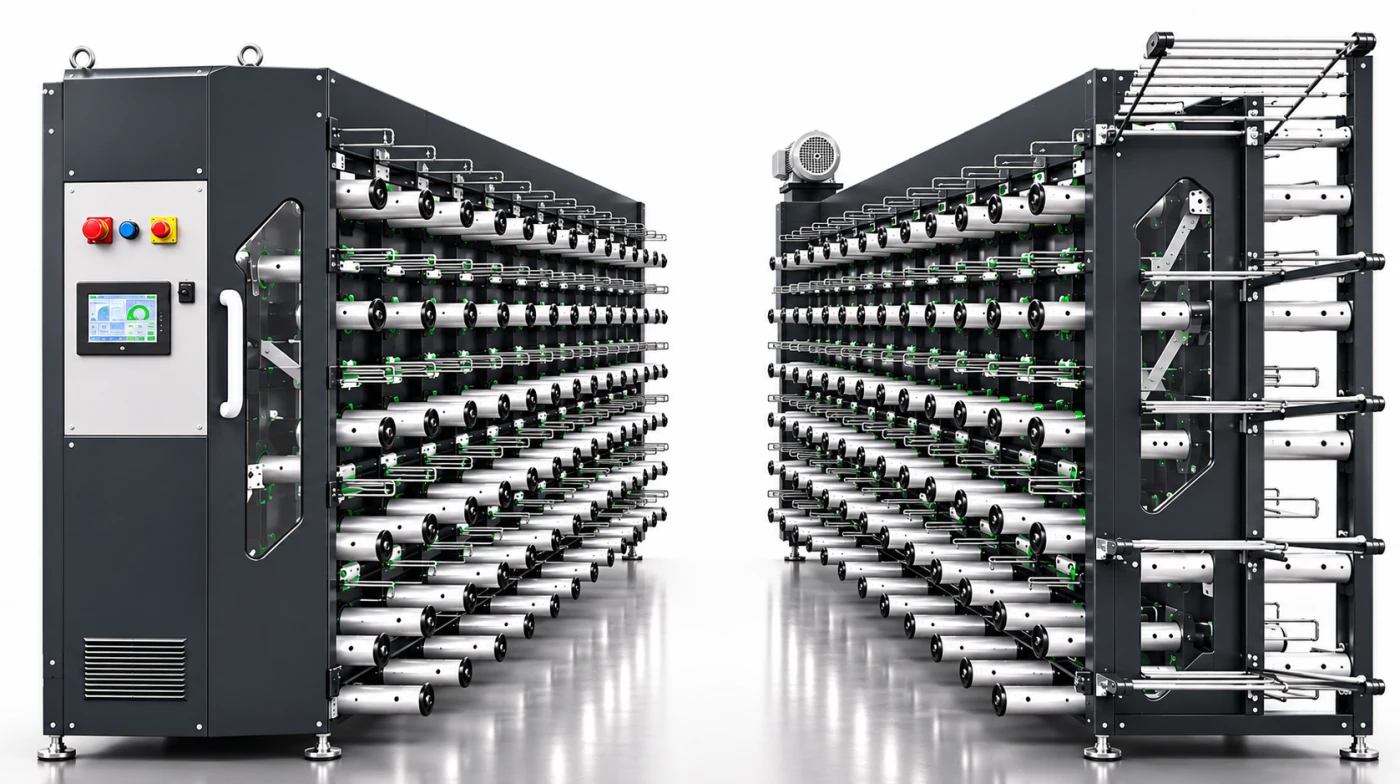
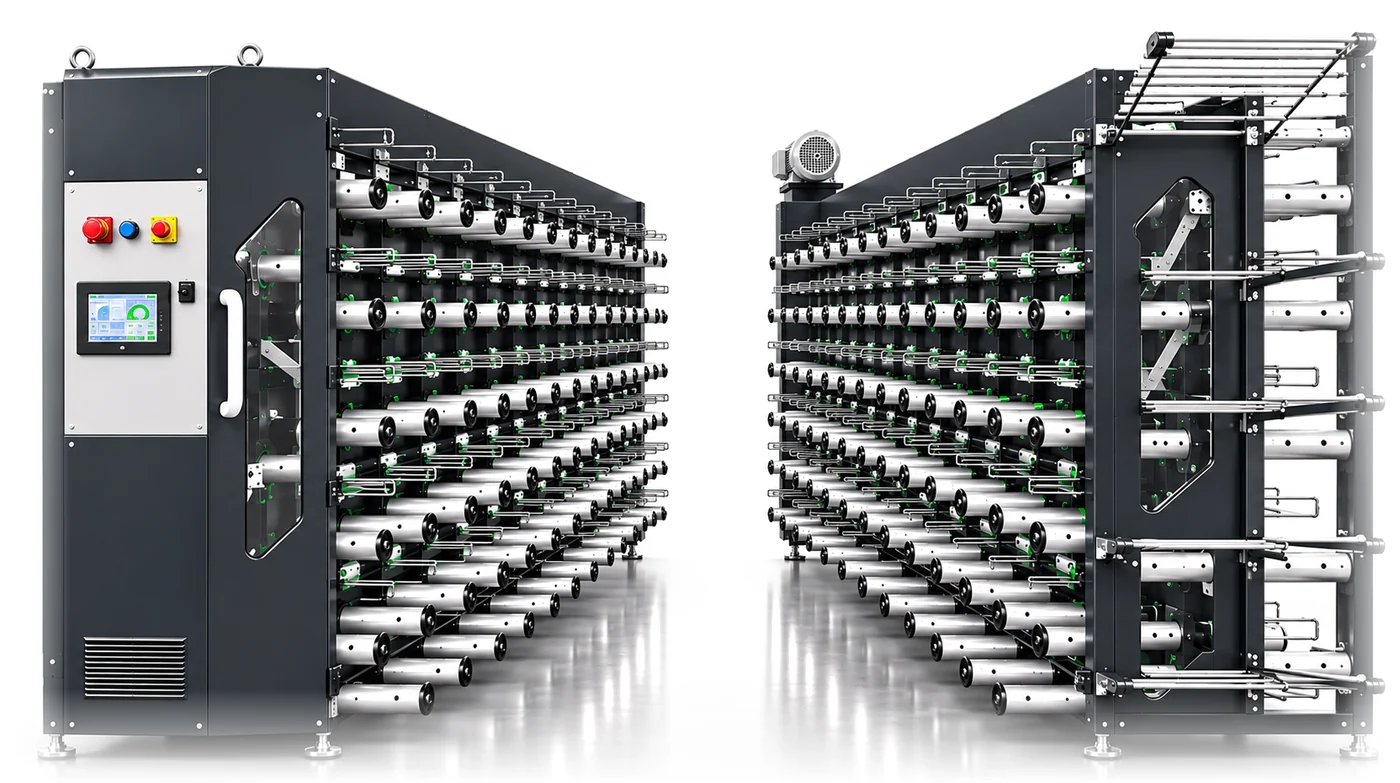
Prestazioni: niente backdrop-filter sulla barra, immagini macchina con bianco e bordi gia' nel file (via blend-mode e mask), video fermo e sfondo nascosto quando la pagina bianca copre la prima schermata, misure in cache negli eventi di scroll, testo a quadratini preparato durante la pausa

diff --git a/index.html b/index.html
@@ -20,7 +20,7 @@
   <link rel="preload" href="assets/fonts/ibm-plex-mono-latin-400-normal.woff2" as="font" type="font/woff2" crossorigin>
   <link rel="preload" as="image" href="assets/bg-video-poster.jpg" fetchpriority="high">
   <link rel="stylesheet" href="css/preloader.css?v=20261150">
-  <link rel="stylesheet" href="css/site.css?v=20261170">
+  <link rel="stylesheet" href="css/site.css?v=20261180">
   <link rel="stylesheet" href="css/contact.css?v=20261150">
 </head>
 <body id="top">
@@ -177,7 +177,7 @@
 
       <!-- Second state of this page (js/aboutmorph.js): the TEXY TRJ W machine. Hidden from everyone (and from assistive tech) until it is shown. -->
       <div class="about-machine" aria-hidden="true">
-        <div class="am-media"><img class="am-img" src="assets/texy-trj-w-3d.webp" width="1400" height="783" alt="" data-i18n-attr="alt:texy.alt" decoding="async"></div>
+        <div class="am-media"><img class="am-img" src="assets/texy-trj-w-3d.webp?v=2" width="1400" height="783" alt="" data-i18n-attr="alt:texy.alt" decoding="async" fetchpriority="low"></div>
         <div class="am-copy">
           <h3 class="am-title">TEXY TRJ W</h3>
           <p class="am-text" data-i18n="texy.p">Nel panorama delle applicazioni pratiche, la TEXY TRJ W si distingue come un’avanguardia tecnologica nella tessitura triassiale, offrendo un’eccellenza senza precedenti nella produzione di tessuti in fibra di carbonio. Questi materiali, cuore dei compositi avanzati, si caratterizzano per una resistenza e una rigidità superiori, risultando indispensabili in ambiti dove le sollecitazioni meccaniche e strutturali sono critiche. Grazie a questa tecnologia, i tessuti prodotti eccellono sotto ogni aspetto, trovando impiego in settori che spaziano dall’aerospaziale all’automobilistico, fino alle applicazioni ingegneristiche più avanzate.</p>
@@ -187,7 +187,7 @@
 
       <!-- Machine 2 (carousel step): waits beyond the right edge until the second scroll attempt. -->
       <div class="about-machine am-second" aria-hidden="true">
-        <div class="am-media"><img class="am-img" src="assets/equ8-creel-3d.webp" width="1400" height="783" alt="" data-i18n-attr="alt:equ.alt" decoding="async"></div>
+        <div class="am-media"><img class="am-img" src="assets/equ8-creel-3d.webp?v=2" width="1400" height="783" alt="" data-i18n-attr="alt:equ.alt" decoding="async" fetchpriority="low"></div>
         <div class="am-copy">
           <h3 class="am-title" data-i18n="equ.title">EQU 8 CREEL A CONTROLLO PROATTIVO</h3>
           <p class="am-text" data-i18n="equ.p1">Il Creel studiato per svolgere in deroule le bobine di carbonio o kevlar.</p>
@@ -232,12 +232,12 @@
   <script src="js/vendor/gsap.min.js"></script>
   <script src="js/preloader.js?v=20261150"></script>
   <script src="js/vendor/lenis.min.js"></script>
-  <script src="js/scroll.js?v=20261152"></script>
-  <script src="js/header.js?v=20261150"></script>
+  <script src="js/scroll.js?v=20261180"></script>
+  <script src="js/header.js?v=20261180"></script>
   <script src="js/textreveal.js?v=20261150"></script>
   <script src="js/overlay.js?v=20261160"></script>
-  <script src="js/aboutmorph.js?v=20261174"></script>
-  <script src="js/site.js?v=20261150"></script>
+  <script src="js/aboutmorph.js?v=20261180"></script>
+  <script src="js/site.js?v=20261181"></script>
   <script src="js/i18n.js?v=20261170"></script>
   <script src="js/contact.js?v=20261150"></script>
 </body>

diff --git a/js/aboutmorph.js b/js/aboutmorph.js
@@ -75,10 +75,13 @@
   function active() { return desktop.matches && !reduced; }
   // Scroll position at which the page rests: the white page is fully in view. When it is a little taller than the screen that is
   // where its bottom edge meets the bottom of the screen (the point where the black footer starts to slide over it), not where its top does.
-  function gateY() {
-    var extra = Math.max(0, Math.min(section.offsetHeight - window.innerHeight, 120));
-    return hero.offsetHeight + extra;
+  // (measured when the layout changes, not on every scroll event: reading sizes there would force a reflow each time)
+  var gate = hero.offsetHeight;
+  function computeGate() {
+    gate = hero.offsetHeight + Math.max(0, Math.min(section.offsetHeight - window.innerHeight, 120));
   }
+  function gateY() { return gate; }
+  if (window.ResizeObserver) { var gro = new ResizeObserver(computeGate); gro.observe(hero); gro.observe(section); }
   // textreveal.js splits the headline into words; with "reduce motion" it does not run, so do it here (same markup, nothing hidden).
   function ensureWords() {
     if (title.querySelector('.tw-word')) return;
@@ -250,6 +253,8 @@
     return { src: src, cs: cs, n: sx.length, sx: sx, sy: sy, t: t, vx: vx, vy: vy, left: box.l, top: box.t, dpr: dpr };
   }
 
+  var fxReady = false;
+  function ensureFx() { if (!fxReady) { prepareFx(); fxReady = true; } }   // cutting the text into squares takes a few tens of ms: done while the page rests, not when the sequence starts
   function prepareFx() {
     var dpr = Math.min(window.devicePixelRatio || 1, 2);
     var oldWords = collectWords(Array.prototype.slice.call(cols.querySelectorAll('.sec-text, .sec-textlink')));
@@ -324,9 +329,11 @@
 
   function build() {
     killTl();
+    fxReady = false;
     var info = targets();
     if (!info) return false;
     var dy = layout(info);
+    computeGate();
     var kids1 = Array.prototype.slice.call(copy.children), kids2 = Array.prototype.slice.call(copy2.children);
     gsap.set(media, { x: 0, y: dy });
     gsap.set(img, { x: 0 }); gsap.set(kids1, { x: 0, opacity: 1 });
@@ -406,6 +413,7 @@
     holdUntil = Date.now() + HOLD;
     lock(true);
     clampToGate();
+    window.requestAnimationFrame(function () { if (arrived && !running()) ensureFx(); });
   }
 
   function release() {
@@ -432,7 +440,7 @@
     if (!tl || running()) return;
     if (dirty) { dirty = false; rebuild(); }
     arrived = null;
-    if (next === 'FWD' || next === 'REV') prepareFx();
+    if (next === 'FWD' || next === 'REV') ensureFx();
     state = next;
     if (next === 'FWD') tl.timeScale(1).play(0);
     else if (next === 'REV') tl.timeScale(REVERSE_SPEED).reverse(tl.duration());

diff --git a/js/site.js b/js/site.js
@@ -36,6 +36,12 @@
   var page = document.getElementById('chi-siamo');
   var next = document.getElementById('portfolio');   // the black page that slides over the white one
   if (!brand || !page) return;
+  var queued = false;
+  function schedule() {                                 // once per frame, however many scroll events came
+    if (queued) return;
+    queued = true;
+    window.requestAnimationFrame(function () { queued = false; update(); });
+  }
   function update() {
     var b = brand.getBoundingClientRect();
     var mid = (b.top + b.bottom) / 2;
@@ -43,8 +49,8 @@
     var covered = next ? next.getBoundingClientRect().top <= mid : false;
     brand.classList.toggle('on-light', s.top < mid && s.bottom > mid && !covered);
   }
-  window.addEventListener('scroll', update, { passive: true });
-  window.addEventListener('resize', update);
+  window.addEventListener('scroll', schedule, { passive: true });
+  window.addEventListener('resize', schedule);
   update();
 })();
 
@@ -71,6 +77,19 @@
   }
   // some browsers need a nudge when autoplay started before the page was visible
   var start = function () { var p = video.play(); if (p && p.catch) p.catch(function () {}); };
-  window.addEventListener('preloader:complete', start);
+  var loaded = !document.documentElement.classList.contains('is-loading');
+  window.addEventListener('preloader:complete', function () { loaded = true; start(); });
   window.addEventListener('pageshow', start);
+
+  // Once the white page covers the first screen nothing of the video can be seen: stop decoding it and drop its layers
+  // (it starts again as soon as the first screen is back in view).
+  var bg = document.getElementById('site-bg');
+  var hero = document.querySelector('.site-hero');
+  if (bg && hero && 'IntersectionObserver' in window) {
+    new IntersectionObserver(function (entries) {
+      var seen = entries[entries.length - 1].isIntersecting;
+      bg.style.visibility = seen ? '' : 'hidden';
+      if (!seen) video.pause(); else if (loaded) start();
+    }, { threshold: 0, rootMargin: '-2px 0px -2px 0px' }).observe(hero);   // (the margin: a first screen that only touches the edge of the window does not count as seen)
+  }
 })();

diff --git a/css/site.css b/css/site.css
@@ -109,9 +109,7 @@ body {
   border-radius: var(--nav-radius);
   color: #fff;
   /* Mostly opaque dark bar: just a hint of the page showing through and a light blur. */
-  background: rgba(10, 11, 13, .90);
-  -webkit-backdrop-filter: blur(6px) saturate(120%);
-  backdrop-filter: blur(6px) saturate(120%);
+  background: rgba(10, 11, 13, .92);   /* no backdrop blur: re-blurring the moving video behind it on every frame is costly and hardly visible at this opacity */
   border: 1px solid rgba(255, 255, 255, .09);
   box-shadow:
     0 8px 24px rgba(0, 0, 0, .30),
@@ -415,12 +413,7 @@ html.lenis, html.lenis body { height: auto; }
    by the script from the one-line headline. The photo waits below the page, clipped out of sight; the text is hidden until shown.
    Phones: no cinematic transition, the block simply follows the text (photo above the description). */
 .about-machine { margin-top: 56px; display: flex; flex-direction: column; gap: 28px; }
-.am-img { display: block; width: 100%; height: auto; mix-blend-mode: multiply;   /* the render has a white background: it melts into the white page */
-  -webkit-mask-image: linear-gradient(to bottom, #000 88%, transparent), linear-gradient(to right, transparent, #000 5%, #000 95%, transparent);
-  -webkit-mask-composite: source-in;
-  mask-image: linear-gradient(to bottom, #000 88%, transparent), linear-gradient(to right, transparent, #000 5%, #000 95%, transparent);
-  mask-composite: intersect;                 /* the soft floor of the render fades out at the edges, no hard cut */
-}
+.am-img { display: block; width: 100%; height: auto; }   /* the renders have a pure white background and soft edges baked in (no blend mode, no mask: they would be re-computed on every frame while moving) */
 .am-title { margin: 0; font: 400 24px / 1.2 var(--font-sans); letter-spacing: .15em; text-transform: uppercase; color: #111; }
 .am-text { margin: 18px 0 0; font: 400 16px / 1.6 var(--font-sans); color: #555; }
 .am-link { margin: 28px 0 0; }

diff --git a/js/scroll.js b/js/scroll.js
@@ -57,23 +57,31 @@
   var desktop = window.matchMedia ? window.matchMedia('(min-width: 768px)') : { matches: true };
   if (!HERO || !items.length) return;
 
+  // measured once (and on resize), not on every scroll event: reading the layout there would force a reflow each time
+  var heroH = HERO.offsetHeight || window.innerHeight, vw = window.innerWidth;
+  var cfg = items.map(function (el) { return CONFIG[el.getAttribute('data-parallax')]; });
+  var lastY = -1;
+  function measure() { heroH = HERO.offsetHeight || window.innerHeight; vw = window.innerWidth; lastY = -1; update(); }
+
   function update() {
     if (!desktop.matches) {
-      items.forEach(function (el) { el.style.transform = ''; });
+      if (lastY !== -2) items.forEach(function (el) { el.style.transform = ''; });
+      lastY = -2;
       return;
     }
-    var heroH = HERO.offsetHeight || window.innerHeight;
     var y = Math.min(Math.max(window.pageYOffset, 0), heroH);       // everything stops once the first screen has passed
+    if (y === lastY) return;                                         // past the first screen: nothing moves any more
+    lastY = y;
     var p = y / heroH;
-    items.forEach(function (el) {
-      var c = CONFIG[el.getAttribute('data-parallax')];
+    items.forEach(function (el, i) {
+      var c = cfg[i];
       if (!c) return;
-      el.style.transform = 'translate3d(' + (p * c.dx * window.innerWidth).toFixed(2) + 'px,' + (y * c.rise).toFixed(2) + 'px,0)';
+      el.style.transform = 'translate3d(' + (p * c.dx * vw).toFixed(2) + 'px,' + (y * c.rise).toFixed(2) + 'px,0)';
     });
   }
 
   window.addEventListener('scroll', update, { passive: true });
-  window.addEventListener('resize', update);
-  if (desktop.addEventListener) desktop.addEventListener('change', update);
+  window.addEventListener('resize', measure);
+  if (desktop.addEventListener) desktop.addEventListener('change', measure);
   update();
 })();

diff --git a/js/header.js b/js/header.js
@@ -24,7 +24,10 @@
   var anchor = 0;                          // scroll position the rise is measured from
   var offset = 0;                          // how far the bar has risen (px, >= 0)
 
-  function maxOffset() { return header.offsetHeight + 40; }   // far enough to clear the bar and its shadow
+  var headerH = header.offsetHeight, maxScroll = root.scrollHeight - window.innerHeight;   // measured on resize, not on every scroll event
+  function measure() { headerH = header.offsetHeight; maxScroll = root.scrollHeight - window.innerHeight; }
+  if (window.ResizeObserver) new ResizeObserver(measure).observe(root); else window.addEventListener('resize', measure);
+  function maxOffset() { return headerH + 40; }   // far enough to clear the bar and its shadow
 
   function follow(y) {
     var next = Math.min(maxOffset(), Math.max(offset, SPEED * (y - anchor)));   // never sinks back by itself
@@ -42,8 +45,7 @@
 
   function onScroll() {
     var y = window.pageYOffset;
-    var max = root.scrollHeight - window.innerHeight;
-    if (y < 0 || y > max) return;                              // rubber-band overscroll: ignore
+    if (y < 0 || y > maxScroll) return;                              // rubber-band overscroll: ignore
     if (root.classList.contains('is-loading') || root.classList.contains('is-contact-open')) return;   // locked page
 
     var delta = y - last;
